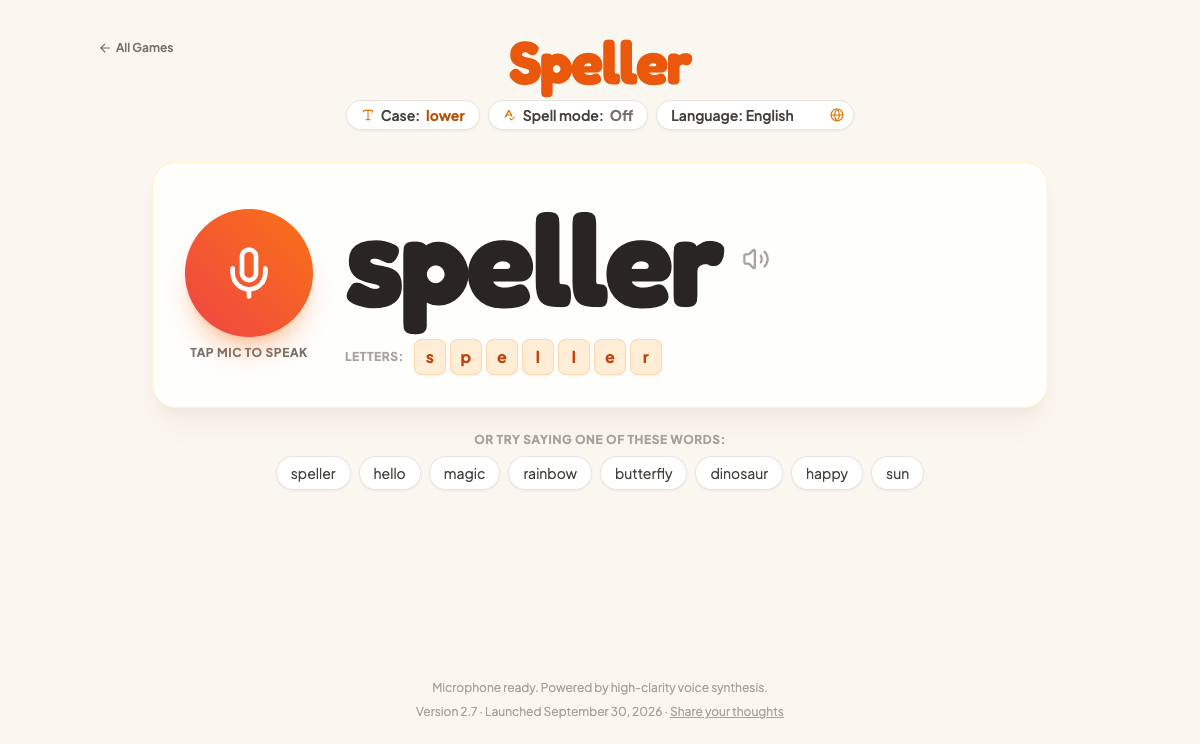
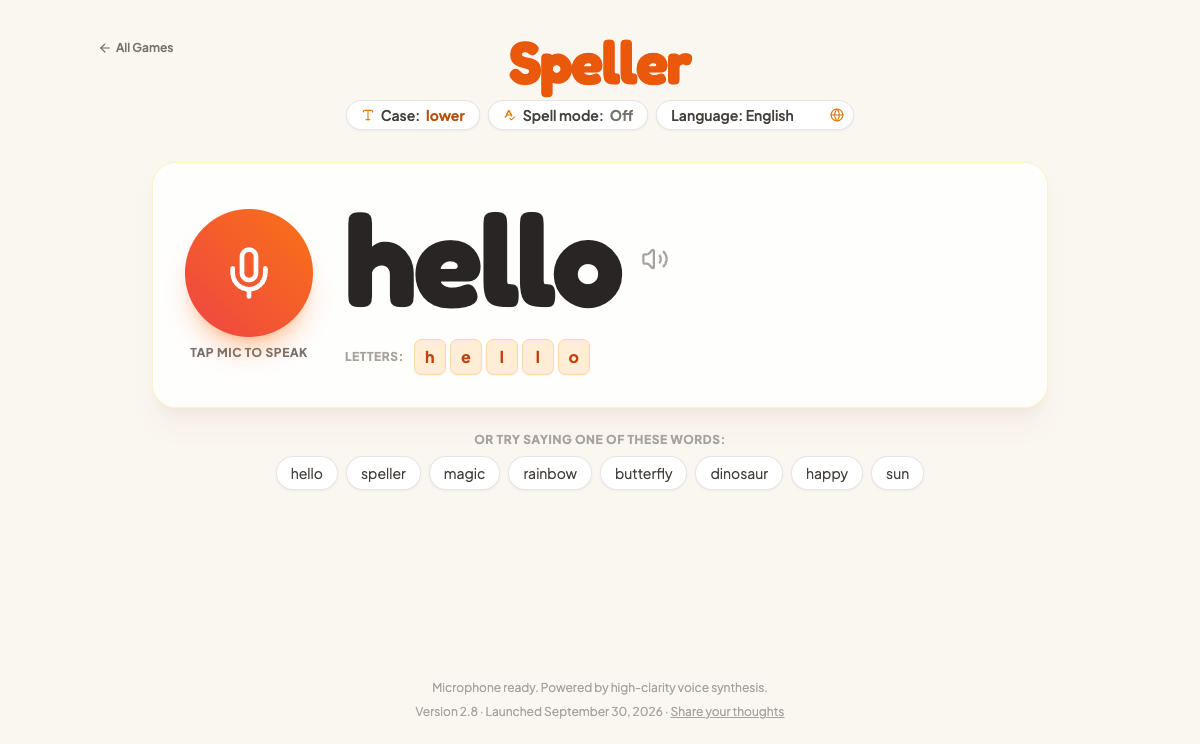
Start Speller with hello in English

Changed region(s): [[0.2775, 0.2782, 0.6475, 0.5255], [0.2467, 0.6183, 0.3392, 0.6492]]

diff --git a/speller/index.html b/speller/index.html
@@ -158,12 +158,12 @@
     <!-- Footer Status -->
     <footer class="w-full max-w-4xl mx-auto mt-auto text-center text-xs text-stone-400 pt-4">
         <p id="statusText">Microphone ready. Powered by high-clarity voice synthesis.</p>
-        <p class="mt-2">Version 2.7 · Launched <time datetime="2026-09-30">September 30, 2026</time> · <a class="underline" href="../feedback/?game=speller&amp;v=2.7">Share your thoughts</a></p>
+        <p class="mt-2">Version 2.8 · Launched <time datetime="2026-09-30">September 30, 2026</time> · <a class="underline" href="../feedback/?game=speller&amp;v=2.8">Share your thoughts</a></p>
     </footer>
 
     <script>
         /* State Variables */
-        let currentWord = "speller";
+        let currentWord = "hello";
         let currentLang = "en-US";
         let isCaseUpper = false;
         let isSpellMode = false;
@@ -174,7 +174,7 @@
 
         /* Language-specific default words */
         const langDefaults = {
-            "en-US": { defaultWord: "speller", samples: ["speller", "hello", "magic", "rainbow", "butterfly", "dinosaur", "happy", "sun"] },
+            "en-US": { defaultWord: "hello", samples: ["hello", "speller", "magic", "rainbow", "butterfly", "dinosaur", "happy", "sun"] },
             "es-ES": { defaultWord: "hola", samples: ["hola", "amigo", "sol", "mariposa", "mágica", "dragón", "feliz", "familia"] },
             "fr-FR": { defaultWord: "bonjour", samples: ["bonjour", "soleil", "papillon", "magie", "fleur", "monde", "heureux", "château"] },
             "de-DE": { defaultWord: "hallo", samples: ["hallo", "sonne", "zauber", "blume", "schmetterling", "glücklich", "drache", "welt"] },
@@ -193,6 +193,7 @@
             initSpeechRecognition();
             renderSampleWords();
             updateDisplay();
+            setTimeout(() => speakCurrentText(), 300);
         });
 
         function initVoiceSynthesis() {

diff --git a/versions/index.html b/versions/index.html
@@ -42,6 +42,7 @@
   <h2>Speller</h2>
   <table>
     <tr><th>Version</th><th>Released</th><th>What was in it</th></tr>
+    <tr><td><a href="speller/2.8/">2.8 — Hello on load</a></td><td>Sep 30, 2026</td><td>Starts in English with “hello” as the first word and attempts to speak it when the page loads.</td></tr>
     <tr><td><a href="speller/2.7/">2.7 — Cantonese voice matching</a></td><td>Sep 30, 2026</td><td>Stops Cantonese from selecting a generic Mandarin voice; matches zh-HK/yue voices specifically and keeps the recognition language on zh-HK.</td></tr>
     <tr><td><a href="speller/2.6/">2.6 — Cantonese and lowercase default</a></td><td>Sep 30, 2026</td><td>Adds Cantonese to the language selector and makes the initial case label explicitly lower.</td></tr>
     <tr><td><a href="speller/2.5/">2.5 — Speller redesign</a></td><td>Sep 30, 2026</td><td>Renamed to Speller and moved to the /speller/ URL. The Gemini redesign adds a larger word display, clickable letter tiles, language selection, capitalization control, Spell mode, and sample words.</td></tr>

diff --git a/index.html b/index.html
@@ -138,7 +138,7 @@ footer { border-top: 1px solid var(--line); padding-top: 20px; color: var(--ink-
       <a class="cover" href="speller/" aria-label="Play Speller"><img src="speller/cover.png" alt="A warm, cream-colored Speller game with a microphone and giant letters" width="1200" height="744"></a>
       <div class="info">
         <h2>Speller</h2>
-        <p class="version"><b>Version 2.7</b> · Launched <time datetime="2026-09-30">September 30, 2026</time></p>
+        <p class="version"><b>Version 2.8</b> · Launched <time datetime="2026-09-30">September 30, 2026</time></p>
         <p>Say a word and see it appear in giant letters. Tap each letter to hear it, switch case or language, and turn on Spell mode to hear the word spelled aloud.</p>
         <ul class="tags">
           <li>Phonics</li><li>Reading</li><li>Speech</li><li>Syllables</li>

diff --git a/speller/HANDOFF.md b/speller/HANDOFF.md
@@ -1,8 +1,8 @@
 # Speller — Handoff Note
 
-## Update — Version 2.7
+## Update — Version 2.8
 
-- **Live:** Speller 2.7 is the current game at /speller/.
+- **Live:** Speller 2.8 is the current game at /speller/.
 - **Design source:** This release replaces the previous Say It, Spell It! page with the reviewed Gemini design supplied by the user.
 - **Interaction:** The page shows a large spoken word, clickable letter tiles, capitalization control, spell mode, language selection, sample words, and speech playback.
 - **Display:** The main word is intentionally oversized for easy reading on phones and tablets.
@@ -10,6 +10,8 @@
   initial case state is explicitly labeled lower.
 - **Cantonese voice fix:** Cantonese now matches only `zh-HK`, `yue`, or explicitly Cantonese
   voices; it no longer silently picks a Mandarin voice.
+- **English start:** English is the default, the first word is “hello,” and the page attempts to
+  speak it after loading.
 - **Dependencies:** The page uses Tailwind and Lucide from their CDN plus Google Fonts, as supplied by the design source.
 - **Historical releases:** Earlier Say It, Spell It! versions remain frozen under versions/word-deconstructor/.
 - **Future work:** Add sentence mode, improve privacy copy around browser speech services, and consider bringing back a curated phonics bank if this design needs instructional breakdowns again.
@@ -18,8 +20,8 @@
 
 - Current page: speller/index.html
 - Current URL: https://magicmakersfamily.github.io/games/speller/
-- Current version: 2.7
+- Current version: 2.8
 - Launch date: 2026-09-30
-- Release tag: speller-v2.7
+- Release tag: speller-v2.8
 
 Before future releases, update the shelf card, README table, feedback game map, versions/index.html, and the frozen release archive. Render speller/cover.png, run a browser smoke check, commit, tag, push, and verify the public URL.

diff --git a/README.md b/README.md
@@ -42,7 +42,7 @@ tools/              freeze-version.sh: freeze a tagged release into versions/
 | James’s Nature Aquarium | `aquarium/` | 3.4 | 2026-09-24 |
 | Mid-Autumn Mayhem | `mid-autumn/` | 1.7 | 2026-09-25 |
 | Blow Up (beta) | `blow-up/` | 1.4 | 2026-09-27 |
-| Speller | `speller/` | 2.7 | 2026-09-30 |
+| Speller | `speller/` | 2.8 | 2026-09-30 |
 
 Past versions stay playable at https://magicmakersfamily.github.io/games/versions/ (for
 grown-ups; each keeps its own saved games). Every release is also a git tag (`blow-up-v1.3`, …).
